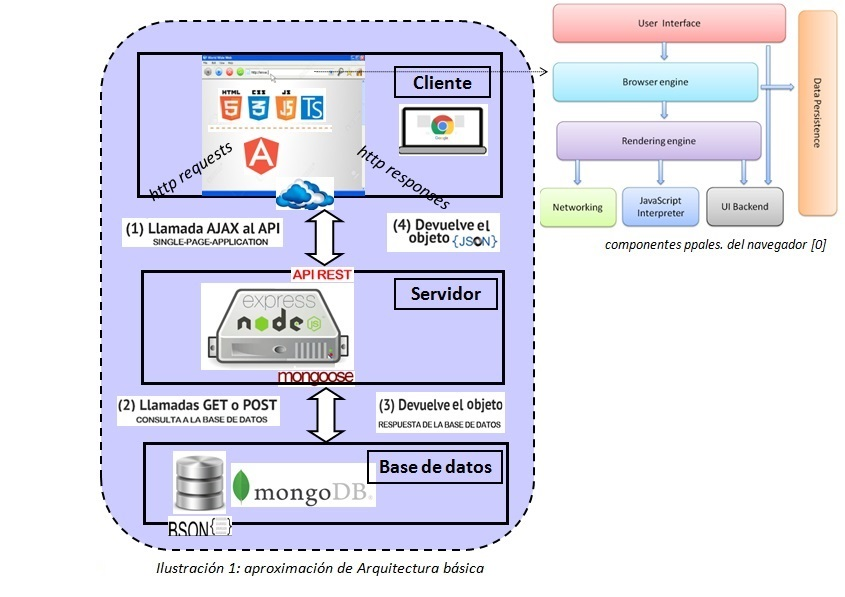
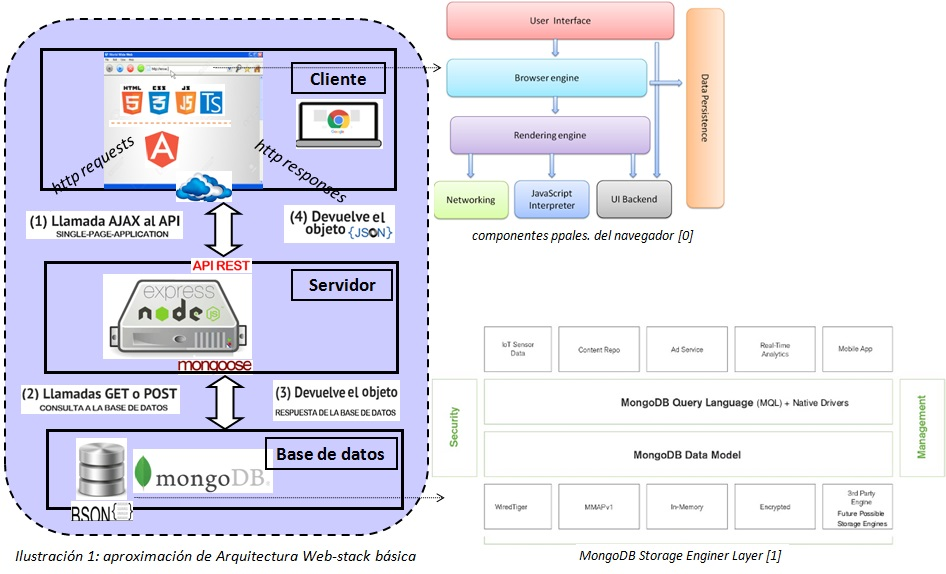
upgrading doc

diff --git a/README.md b/README.md
@@ -42,7 +42,7 @@ Por tanto, el problema fundamental al que se enfrenta el programador es la diver
 Se circunscribe a las tecnologías de la web y, más concretamente, al desarrollo de apps web SPA; no siendo aquí necesarias cuestiones de usabilidad y rendimiento (que si lo son en apps del mundo real)
 ###Princípios generales de diseño
 ####I. Arquitectura Software basada en capas
-Arquitectura que, desde el punto de vista de su estructura, se basa en capas y, según su topología, es centralizada (jerárquica, multi-capa ó n-tier *-son una generalización del paradigma cliente/servidor-*), donde los componentes del sistema presentan distintos roles [1].  
+Arquitectura que, desde el punto de vista de su estructura, se basa en capas y, según su topología, es centralizada (jerárquica, multi-capa ó n-tier *-son una generalización del paradigma cliente/servidor-*), donde los componentes del sistema presentan distintos roles [2].  
 ![multi-capa](./images/img02-n-tiers.jpg)
 
 ####II. Diseño *top-down* (de arriba abajo o descendente)
@@ -51,36 +51,37 @@ Orientado al desarrollo de nuevos sistemas, desde su origen, y donde los compone
 
 (1) no confundir aquí el concepto de acoplamiento con el habitualmente empleado en IS.
 ####III. Modelo basado en componentes
-Los componentes se diseñan siguiendo el modelo de AASS basada en subsistemas y añadiendo criterios de SSDD. Consiste en múltiples componentes que encapsulan cierta información. Un componente esta formado por otros componentes, un objeto simple o múltiples objetos. Ofrecen una interfaz (la de los *wrappers*), independiente de la implementación, para comunicarse con otros componentes usando patrones de comunicación [3].  
-Que los componentes sean usados para gestionar el sistema, a parte de reproducir la AASS de apps administradas como un conjunto de componentes, permiten adaptar dinámicamente estas apps a los cambios del entorno [4]. Por tanto, esta característica, contribuye sobremanera a alcanzar otro de los principios fundamentales de la IS: la reutilización.
+Los componentes se diseñan siguiendo el modelo de AASS basada en subsistemas y añadiendo criterios de SSDD. Consiste en múltiples componentes que encapsulan cierta información. Un componente esta formado por otros componentes, un objeto simple o múltiples objetos. Ofrecen una interfaz (la de los *wrappers*), independiente de la implementación, para comunicarse con otros componentes usando patrones de comunicación [4].  
+Que los componentes sean usados para gestionar el sistema, a parte de reproducir la AASS de apps administradas como un conjunto de componentes, permiten adaptar dinámicamente estas apps a los cambios del entorno [5]. Por tanto, esta característica, contribuye sobremanera a alcanzar otro de los principios fundamentales de la IS: la reutilización.
 ###Glosario
 **Acoplamiento**: grado de interdependencia entre dos o más componentes SW o sistemas HW.  
 **App o sistema (en todo el documento)**: se referirá a nuestra aplicación web SPA.  
 **Arquitectura Software (AASS)**: base para una correcta implementación del sistema. Implica la estructuración de sus componentes, cómo éstos interactúan y la estructura propia de datos que usan.  
-Desde el nivel más alto de abstracción, nos situa en el plano estratégico que hace posible alineación negocio/tecnología, estableciendo un puente entre los requisitos y el diseño [5].  
+Desde el nivel más alto de abstracción, nos situa en el plano estratégico que hace posible alineación negocio/tecnología, estableciendo un puente entre los requisitos y el diseño [6].  
 **BBDD (Base de datos)**: Repositorio de almacenaje y estructuración de datos. Garantiza la persistencia de un sistema, eso es, que los datos permanezcan en el tiempo.  
 **Cluster**:  agrupamiento de servidores para aumentar la disponibilidad de servicio de un sistema. Cuando decimos que n-servidores son "clusterizables", es lo mismo que decir n-servidores en alta disponibilidad.  
 *Framework*: entorno estandarizado de trabajo para abordar una problemática concreta, como pueda ser un desarrollo SW o la representación de una AASS.  
 **IS**: Ingeniería de Software. De manera simplona, campo de la informática que se encarga de aquello que no es tangible y, por ende, difícilmente medible; básicamente, el SW. Más formal, podríamos acercanos a la definición de la IEEE: "*aplicación de una estrategia sistemática, planificada y controlable (en lo posible) para el desarrollo, explotación y mantenimiento del software.*"  
 **IPO**: (interacción persona-ordenador). Proceso de diseño de sistemas interactivos centrados en el usuario.  
-**SPA** (*Single-page application*): interfaz web de página única, compuesta de componentes individuales, modificables y/o sustituibles y, por consiguiente, evita la renderización a cada interacción del usuario con la app [6]. Lectura complementaria [7]  
-**SSDD**: sistema o entorno de computación distribuido. Conjunto de computadores, interconectados mediante una red, que comparten un estado global y parecen ser usados como un único sistema (ofrecen una visión de sistema único, *Single System Image o SSI*). [8]  
+**SPA** (*Single-page application*): interfaz web de página única, compuesta de componentes individuales, modificables y/o sustituibles y, por consiguiente, evita la renderización a cada interacción del usuario con la app [7]. Lectura complementaria [8]  
+**SSDD**: sistema o entorno de computación distribuido. Conjunto de computadores, interconectados mediante una red, que comparten un estado global y parecen ser usados como un único sistema (ofrecen una visión de sistema único, *Single System Image o SSI*). [9]  
 **Sistema heredado**: sistema fundamental para la organización, creado hace tiempo, al que se han ido adaptando otros a su alrededor (monolítico/inextensible) y que, en la actualidad, se usa en un contexto distinto para el que fue diseñado.  
-**Usabilidad**: orientada a que el usuario tenga facilidad en el manejo de la app (con ausencia de incomodidad) y un elevado grado de satisfacción. [9]  
+**Usabilidad**: orientada a que el usuario tenga facilidad en el manejo de la app (con ausencia de incomodidad) y un elevado grado de satisfacción. [10]  
 *Wrapper*: usados en procesos de integración como bloques de contrucción básicos (*building blocks*). Elemento que proporciona una puerta de entrada a la app con la que se pretende interactuar. El acceso puede ser: a través de una interfaz (vía API “programática”), atacando directamente a la BBDD de la app, o bien, a través de una tabla de servicios proporcionada por la propia app.  
 ###Referencias
 Se recogen a modo de citas, siguiendo la guía de estilo y especificaciones de la asociación IEEE.  
   
 [0] T. Garsiel, "How browsers work [on-line]", Tali Garsiel's site, accedido en oct. 2016, disponible [aquí](http://taligarsiel.com/Projects/howbrowserswork1.htm)  
-[1] J.M. Martín Ramos, "Tema 1. Introducción a los SSDD", Apuntes asignatura SSDD, Dpto. de TI de la ETSI, UHU, 2014.  
-[2] G. Alonso, "Chapter 1: Distributed Information Systems [on-line]", Swiss Federal Institute of Technology, acceso jun. 2014, disponible [aquí](http://www.inf.ethz.ch/personal/alonso/teaching.html)  
-[3] A.J. Suárez Fábrega, "Tema 1: AASS basada en componentes", Apuntes asignatura ASDM, Dpto. de TI de la ETSI, UHU, 2014.  
-[4] S. Sicard, F. Boyer and N. De Palma, "Using Components for Architecture-Based Management: The Self-Repair case." in *Proc. Int’l Conference on Software Engineering (ICSE)*, 2008.  
-[5] D. Garlan "From Software Programming to Software Engineering" in *I Congreso internacional de Ingeniería de software para Grandes corporaciones*, Huelva, 2013.  
-[6] A. Mesbah and A. van Deursen, "Migrating multi-page web apps to single-page ajax interfaces." in Delft University of Technology, Technical Rep., TUD-SERG-2006-018 2nd rev., pp. 1, 2006.  
-[7] M.A. Álvarez Sánchez, "Qué es una SPA [on-line]", DesarrolloWeb.com web page, accedido en dic. 2016, disponible [aquí](http://www.desarrolloweb.com/articulos/que-es-una-spa.html)  
-[8] J.M. Martín Ramos, "Tema 2. Arquitectura de los SSDD", Apuntes asignatura SSDD, Dpto. de TI de la ETSI, UHU, 2014.  
-[9] N. Pavón Pulido, "Tema 1: IPO", Apuntes asignatura Diseño de Interfaces de usuario, Dpto. de TI de la ETSI, UHU, 2013.  
+[1] "MongoDB 3.4 Architecture Guide [on-line]", MongoDB Inc., Nov. 2016, accedido en nov. 2016, disponible [aquí](https://www.mongodb.com/mongodb-architecture)  
+[2] J.M. Martín Ramos, "Tema 1. Introducción a los SSDD", Apuntes asignatura SSDD, Dpto. de TI de la ETSI, UHU, 2014.  
+[3] G. Alonso, "Chapter 1: Distributed Information Systems [on-line]", Swiss Federal Institute of Technology, acceso jun. 2014, disponible [aquí](http://www.inf.ethz.ch/personal/alonso/teaching.html)        
+[4] A.J. Suárez Fábrega, "Tema 1: AASS basada en componentes", Apuntes asignatura ASDM, Dpto. de TI de la ETSI, UHU, 2014.  
+[5] S. Sicard, F. Boyer and N. De Palma, "Using Components for Architecture-Based Management: The Self-Repair case." in *Proc. Int’l Conference on Software Engineering (ICSE)*, 2008.  
+[6] D. Garlan "From Software Programming to Software Engineering" in *I Congreso internacional de Ingeniería de software para Grandes corporaciones*, Huelva, 2013.  
+[7] A. Mesbah and A. van Deursen, "Migrating multi-page web apps to single-page ajax interfaces." in Delft University of Technology, Technical Rep., TUD-SERG-2006-018 2nd rev., pp. 1, 2006.  
+[8] M.A. Álvarez Sánchez, "Qué es una SPA [on-line]", DesarrolloWeb.com web page, accedido en dic. 2016, disponible [aquí](http://www.desarrolloweb.com/articulos/que-es-una-spa.html)  
+[9] J.M. Martín Ramos, "Tema 2. Arquitectura de los SSDD", Apuntes asignatura SSDD, Dpto. de TI de la ETSI, UHU, 2014.  
+[10] N. Pavón Pulido, "Tema 1: IPO", Apuntes asignatura Diseño de Interfaces de usuario, Dpto. de TI de la ETSI, UHU, 2013.  
 
 
 
